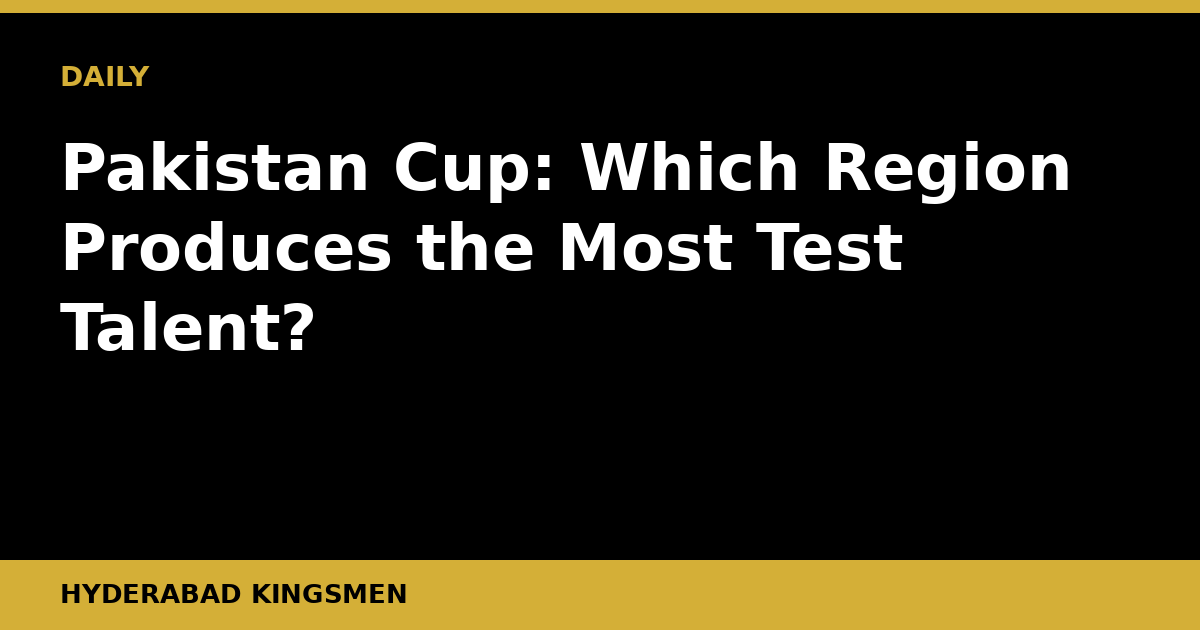
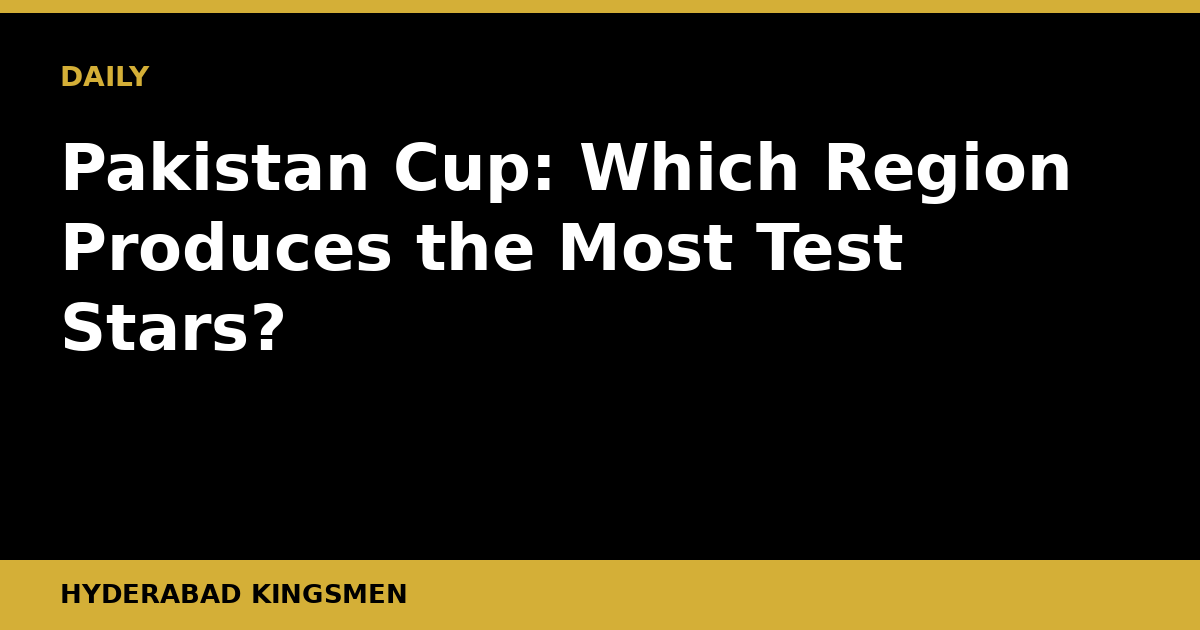
Daily post 2026-09-02

Changed region(s): [[0.0308, 0.4825, 0.2775, 0.573]]

diff --git a/content/posts/pakistan-cup-odi-regional-cricket-international-prospects.md b/content/posts/pakistan-cup-odi-regional-cricket-international-prospects.md
@@ -1,51 +1,51 @@
 ---
-title: "Pakistan Cup: Which Region Produces the Most Test Talent?"
+title: "Pakistan Cup: Which Region Produces the Most Test Stars?"
 slug: "pakistan-cup-odi-regional-cricket-international-prospects"
-date: "2026-07-28T03:56:23+05:00"
+date: "2026-09-02T05:19:01+05:00"
 draft: false
-description: "The Pakistan Cup remains domestic cricket's most reliable talent conveyor belt. But which region has sent the most players to the national setup?"
+description: "The Pakistan Cup remains domestic cricket's most underrated talent pipeline. We examine which regional side has delivered the most international prospects in recent years."
 banner: "/banners/pakistan-cup-odi-regional-cricket-international-prospects.png"
 kicker: "ANALYSIS"
 author: "Hyderabad Kingsmen"
 translationKey: "pakistan-cup-odi-regional-cricket-international-prospects"
-tags: ["pakistan-cricket", "pakistan-cup", "domestic-cricket", "odi-cricket", "talent-pipeline", "regional-cricket", "pakistan-selectors"]
+tags: ["pakistan-cricket", "pakistan-cup", "domestic-cricket", "khyber-pakhtunkhwa", "central-punjab", "sindh", "talent-pipeline"]
 categories: ["Analysis"]
 ---
 
-The Pakistan Cup quietly does what loud franchise tournaments cannot: it exposes middle-order batters, workload-heavy seamers, and thinking captains to 50-over pressure across a full regional competition. For selectors hunting the next generation of Pakistan internationals, it has historically been an indispensable filter.
+The Pakistan Cup quietly does some of the heaviest lifting in Pakistani cricket. While the PSL grabs the headlines and the national selectors watch franchise cricket obsessively, the regional ODI tournament has historically been the last proving ground before a player earns his first green cap.
 
 ## The Real Question Behind the Tournament
 
-Every season the Pakistan Cup produces performers who catch the eye of national selectors, but the conversation rarely moves beyond individual scorecards. The more instructive question is structural: which regional side has, over the years, been the most reliable pipeline of genuine international-level cricketers?
+Every edition of the Pakistan Cup produces statistics, upsets, and the occasional hundred that gets lost in the news cycle. The more interesting question is structural: which of Pakistan's regional teams has consistently served as the most reliable conveyor belt of international-quality players?
 
-The answer, by most credible assessments, points to **Central Punjab** and **Khyber Pakhtunkhwa** as the two most productive nurseries, with a strong argument for KPK in particular when it comes to fast bowling.
+The answer, on the weight of historical evidence, points firmly toward **Central Punjab** and **Khyber Pakhtunkhwa**, though for quite different reasons.
 
-KPK's contribution to Pakistan's pace attack over the past decade is difficult to overstate. The region's high-altitude conditions, combined with a culture of aggressive seam bowling, has consistently produced bowlers who arrive at the national level with pace and movement already baked in. Names that progressed through KPK's domestic structure before earning caps reflect a pattern that selectors and team management have quietly leaned on.
+Central Punjab has benefited from the gravity of Lahore. The city's infrastructure, its academies, and its deep association with the Pakistan Cricket Board's centralised setup mean that elite young players frequently represent Punjab at regional level before anything else. Babar Azam, the cornerstone of Pakistan's batting across all formats, cut his teeth in Punjab's regional setups. Shaheen Shah Afridi, Pakistan's premier new-ball bowler, similarly passed through the KP pathway before becoming a global name.
 
-Central Punjab, meanwhile, has supplied batters and all-rounders in considerable numbers, benefiting from deeper playing resources in Lahore and access to superior training facilities. The sheer volume of cricketers in the Punjab system means attrition is built in, but so is quality at the top end.
+## KP's Pace Factory and Punjab's Batting Depth
 
-## What the Pakistan Cup Actually Tests
+Khyber Pakhtunkhwa has become something of a pace factory in recent years. The region's contribution to Pakistan's fast-bowling stocks is disproportionate to its size. Shaheen, Mohammad Wasim Jr, and Ihsanullah have all come through regional cricket in KP before making their marks in the PSL and then at international level. The Pakistan Cup has served as the arena where these bowlers get extended spells under real pressure conditions, something Twenty20 cricket simply cannot replicate.
 
-The format matters. Fifty-over cricket demands patience and game-sense that T20 leagues can mask. A batter who manufactures a PSL cameo can hide technical frailties for four overs. Try doing that for forty-five. The Pakistan Cup, precisely because it is unglamorous and under-covered, strips away the noise.
+Central Punjab counters with batting depth. The volume of red-ball and white-ball batters who have moved from Punjab's regional setup into international contention over the past decade is significant. Saud Shakeel, now one of Pakistan's most dependable Test batsmen, developed through the Southern Punjab and Central Punjab pipeline. Abdullah Shafique's emergence follows a similar arc.
 
-Spinners in particular benefit from longer spells. The Pakistan Cup has historically surfaced left-arm orthodox bowlers and leg-spinners who then made the leap to national selection, because the format gives them the overs to build pressure rather than simply contain.
+## Sindh's Underrated Contribution
 
-Sindh, despite producing a respectable volume of national players, has arguably punched below its demographic weight. The province's talent base, which encompasses Karachi's sprawling cricket culture, should theoretically dominate these rankings. That it does not fully convert domestic performance into caps is a persistent puzzle for Pakistan cricket administrators, and one worth examining seriously.
+Sindh deserves more credit than it typically receives in these conversations. Karachi's cricketing culture is rich and long-standing, and the Sindh regional team in the Pakistan Cup has regularly featured players who push the national selectors. Sarfaraz Ahmed built much of his early reputation through Sindh cricket. More recently, Khurram Manzoor and Asad Shafiq were Sindh products who sustained long international careers.
 
-Balochistan and Southern Punjab, both relatively recent entrants as separate administrative units, are still building their pipelines. The infrastructure gaps are real. But Balochistan in particular has shown flashes, especially in pace bowling, that suggest the region's international contribution may grow meaningfully over the next cycle.
+The problem for Sindh has been inconsistency at the team management and selection level, which has sometimes meant talented players stagnate or are overlooked compared to their Punjab counterparts. The politics of Pakistani cricket selection, an open secret in the domestic circuit, does not always reward regional merit equally.
 
-## Implications for the National Setup
+## Balochistan and the Others
 
-For Pakistan's ODI team, the relevance of the Pakistan Cup has never been more pointed. The side faces a challenging ICC Super League and World Cup qualification cycle, and the middle-order fragility that has haunted Pakistan for years will not be fixed by PSL franchises, whose incentives run toward match-winners rather than technically complete 50-over cricketers.
+Balochistan's inclusion in the regional structure was a deliberate PCB decision to broaden the talent base. It is still maturing as a cricketing region, but the Pakistan Cup exposure has given players from Quetta and surrounding areas a platform they would not otherwise have. Imam-ul-Haq, who is associated with Khyber Pakhtunkhwa through his domestic cricket, is an example of how the regional structure can give a player sufficient volume of games to force the selectors' hand. Balochistan has produced prospects, but the pipeline to full international cricket remains thinner than in the older cricketing provinces.
 
-Selectors need to watch the Pakistan Cup not for big scores alone but for *how* runs are made and wickets taken. A batter who constructs a 70 against a disciplined seam attack on a used Faisalabad pitch is telling you something more useful than a T20 half-century on a flat Karachi deck.
+## What This Means for Pakistan Cricket Going Forward
 
-Coaching staff at the regional level also deserve scrutiny. Regions that have produced consistent international prospects tend to have retained experienced coaches who understand the demands of the next level. Where that continuity is absent, talent often stalls before it reaches national visibility.
+The PCB's challenge is to ensure the Pakistan Cup remains a genuine selection shop window rather than a formality played out in front of sparse crowds. The tournament has suffered from scheduling issues, often sandwiched between PSL windows in a way that strips it of its best players and its narrative momentum.
+
+If Pakistan is serious about building batting depth beyond its top four, and about finding the next generation of wicket-taking seamers for Test cricket, the Pakistan Cup needs better broadcast coverage, more consistent scheduling, and a clearer signal from selectors that performances here carry genuine weight.
 
 ## What to Watch Next
 
-The players to monitor from the next Pakistan Cup cycle are the pace-bowling all-rounders from KPK and any top-order batter from Sindh who can bat through a full innings under pressure. Both represent gaps in Pakistan's current squad architecture.
+The upcoming editions of the Pakistan Cup will be worth monitoring specifically for how many of the current fringe Test players, those hovering between domestic excellence and international recall, use the tournament to make a decisive case. Watch Sindh's middle-order options, KP's newer pace bowlers, and whether Central Punjab can produce a genuine spin-bowling candidate to complement the national team's thin off-spin stocks.
 
-Wider reforms to the regional system, including the distribution of quality practice facilities and the alignment of Pakistan Cup scheduling with national team planning cycles, will determine whether the tournament keeps producing internationals or gradually loses relevance to franchise cricket's gravitational pull.
-
-The Pakistan Cup will not trend on social media. It will not fill stadiums the way the PSL does. But if Pakistan cricket is serious about building a 50-over team capable of competing at the next World Cup, it will treat this tournament with the analytical seriousness it deserves. The regions are doing their part. The question is whether the system around them is listening.
+Regional cricket is not glamorous. But it is where Pakistan cricket's next ten years will be built.
